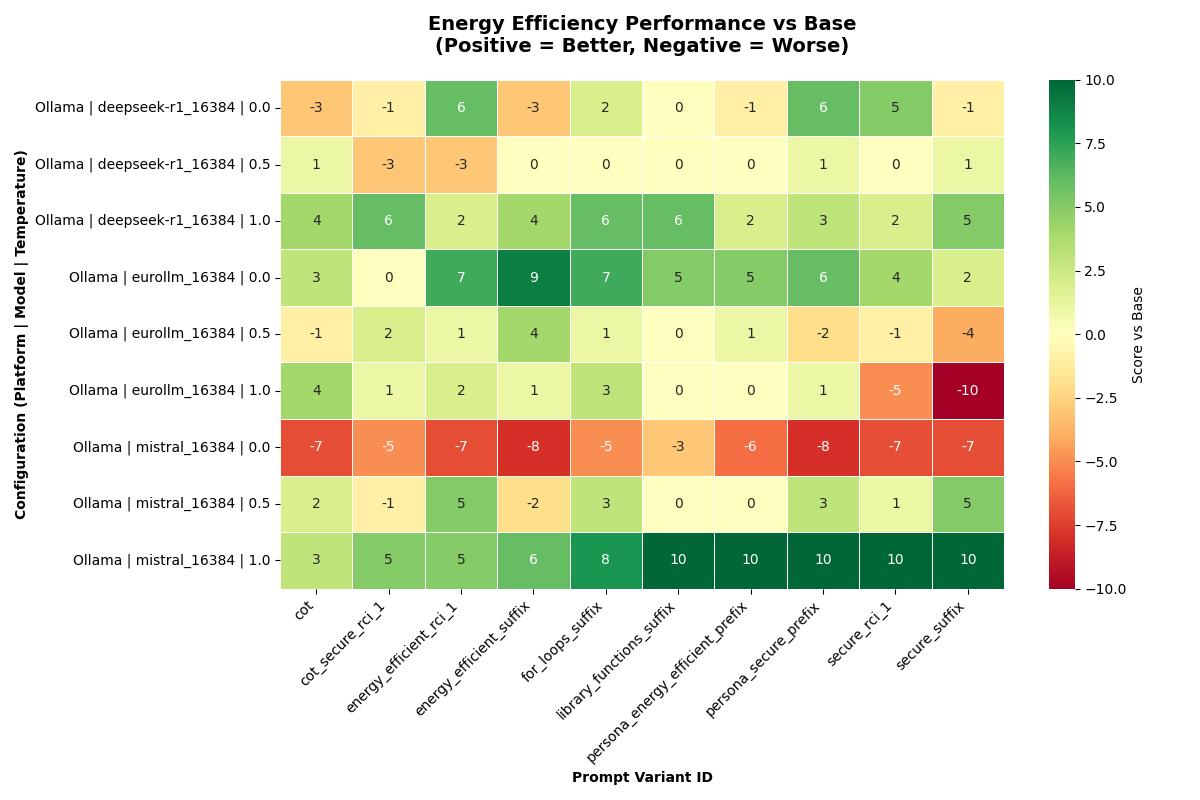
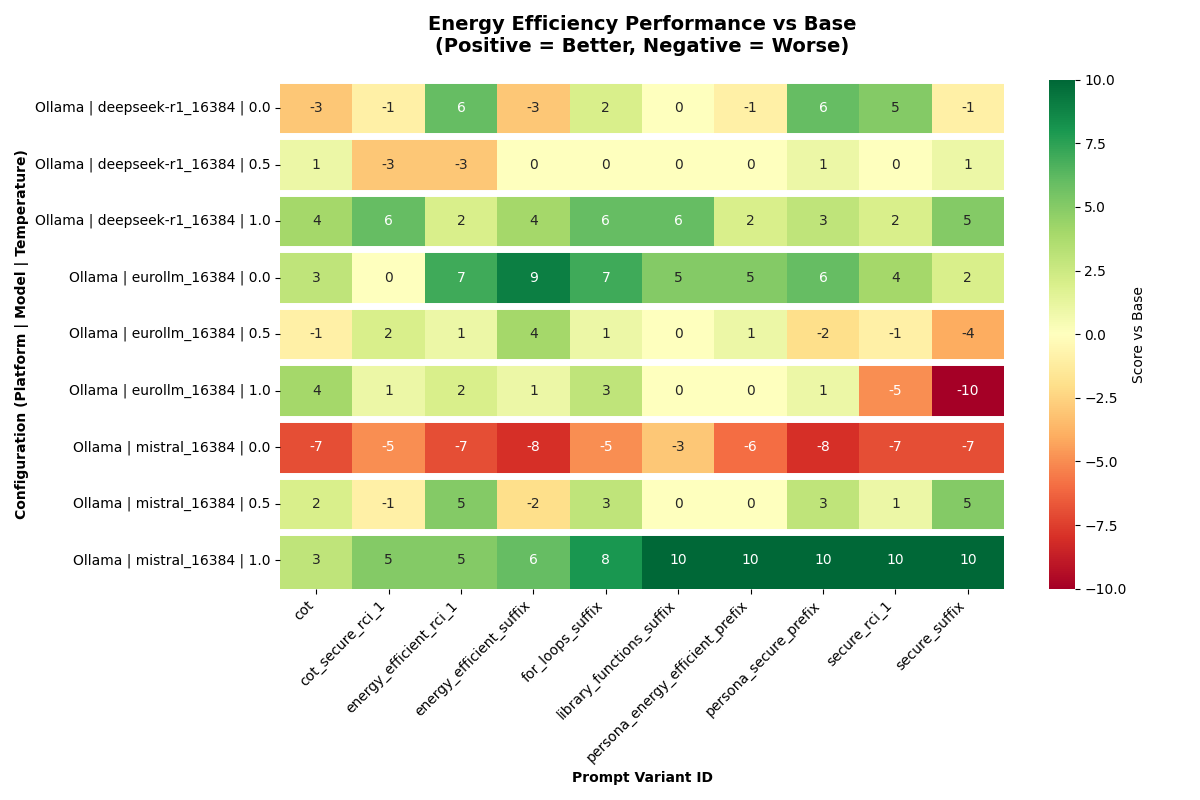
refactor(result_parsing): Add vertical spacing between rows for the variant to base comparison graphs

diff --git a/result_parsing/security/security_figures.py b/result_parsing/security/security_figures.py
@@ -178,16 +178,19 @@ def create_heatmap_to_base(
 
     plt.figure(figsize=figsize)
 
-    sns.heatmap(
+    ax = sns.heatmap(
         heatmap_data,
         annot=True,
         fmt=".0f",
         cmap="RdYlGn",
         center=0,
         cbar_kws={"label": "Aggregated Score vs Base"},
-        linewidths=0.5,
+        linewidths=0.0,
         square=False,
     )
+
+    for i in range(len(heatmap_data.index)):
+        ax.axhline(y=i, color="white", linewidth=5.0)
 
     plt.title(
         "Security Performance vs Base (All Metrics Aggregated)\n(Positive = Better, Negative = Worse)",

diff --git a/result_parsing/energy_efficiency/energy_efficiency_figures.py b/result_parsing/energy_efficiency/energy_efficiency_figures.py
@@ -24,16 +24,19 @@ def create_heatmap_to_base(
 
     plt.figure(figsize=figsize)
 
-    sns.heatmap(
+    ax = sns.heatmap(
         heatmap_data,
         annot=True,
         fmt=".0f",
         cmap="RdYlGn",
         center=0,
         cbar_kws={"label": "Score vs Base"},
-        linewidths=0.5,
+        linewidths=0,
         square=False,
     )
+
+    for i in range(len(heatmap_data.index)):
+        ax.axhline(y=i, color="white", linewidth=5.0)
 
     plt.title(
         "Energy Efficiency Performance vs Base\n(Positive = Better, Negative = Worse)",

diff --git a/main.py b/main.py
@@ -20,7 +20,7 @@ CODE_GENERATION_PHASE = False
 CODE_GENERATION_PHASE_APPLY_POST_PROCESSING = False
 CODE_EVALUATION_PHASE = False
 RESULT_PARSING_PHASE = True
-RESULT_PARSING_PHASE_EXTRAS = True
+RESULT_PARSING_PHASE_EXTRAS = False
 
 if __name__ == "__main__":
     # Change STDOUT and STDERR to /logs
